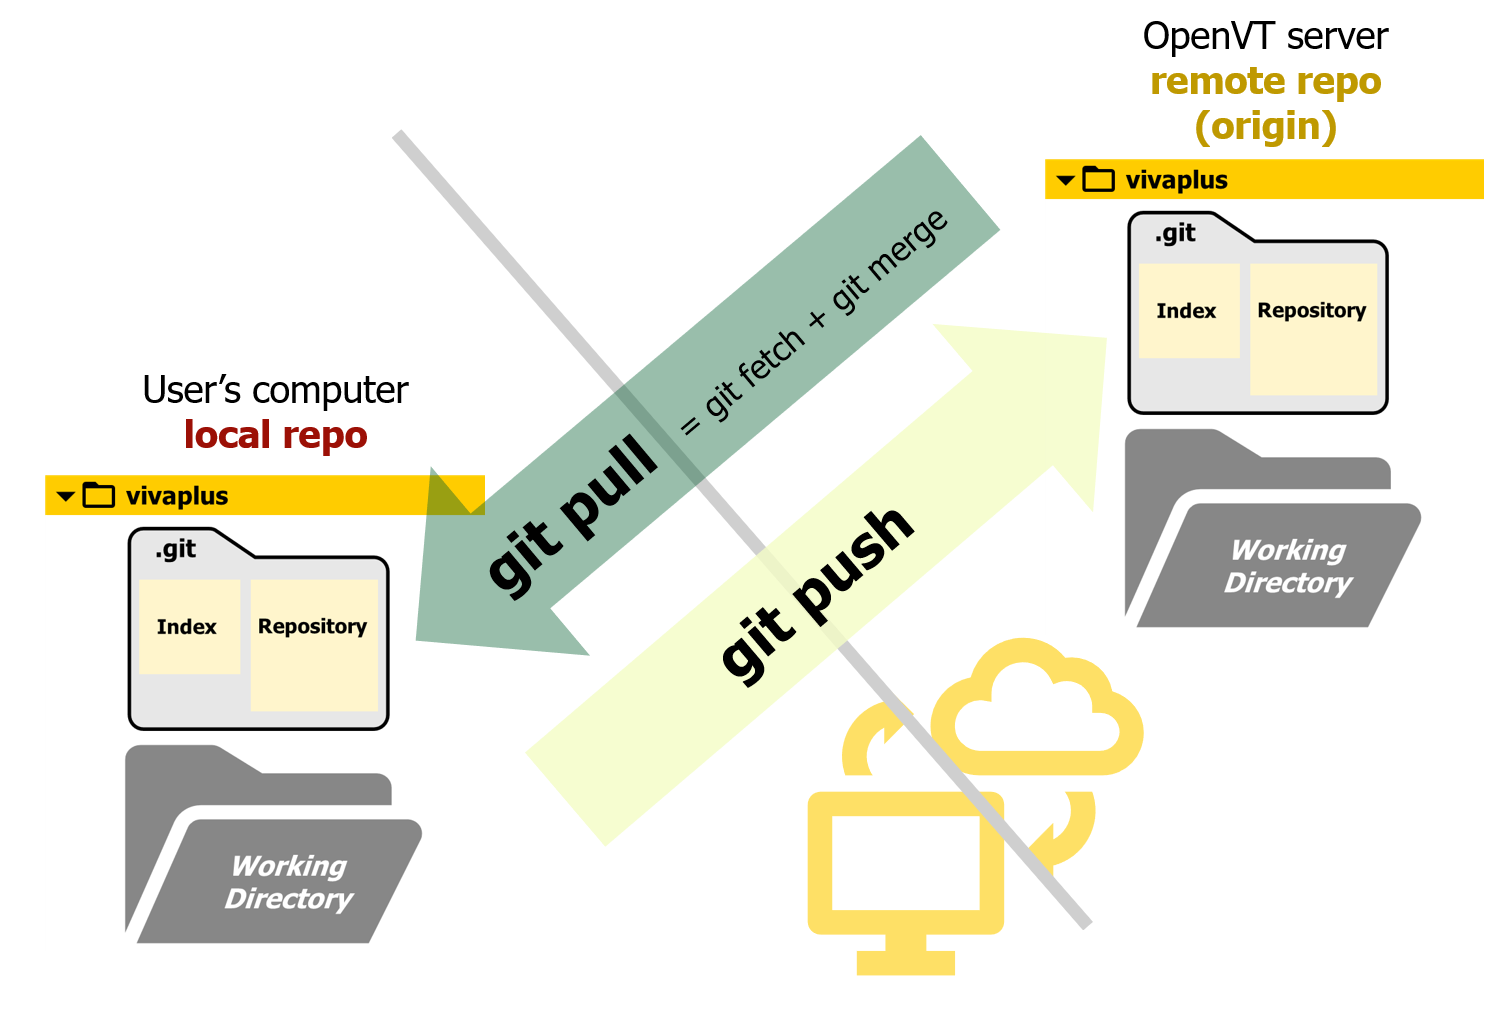
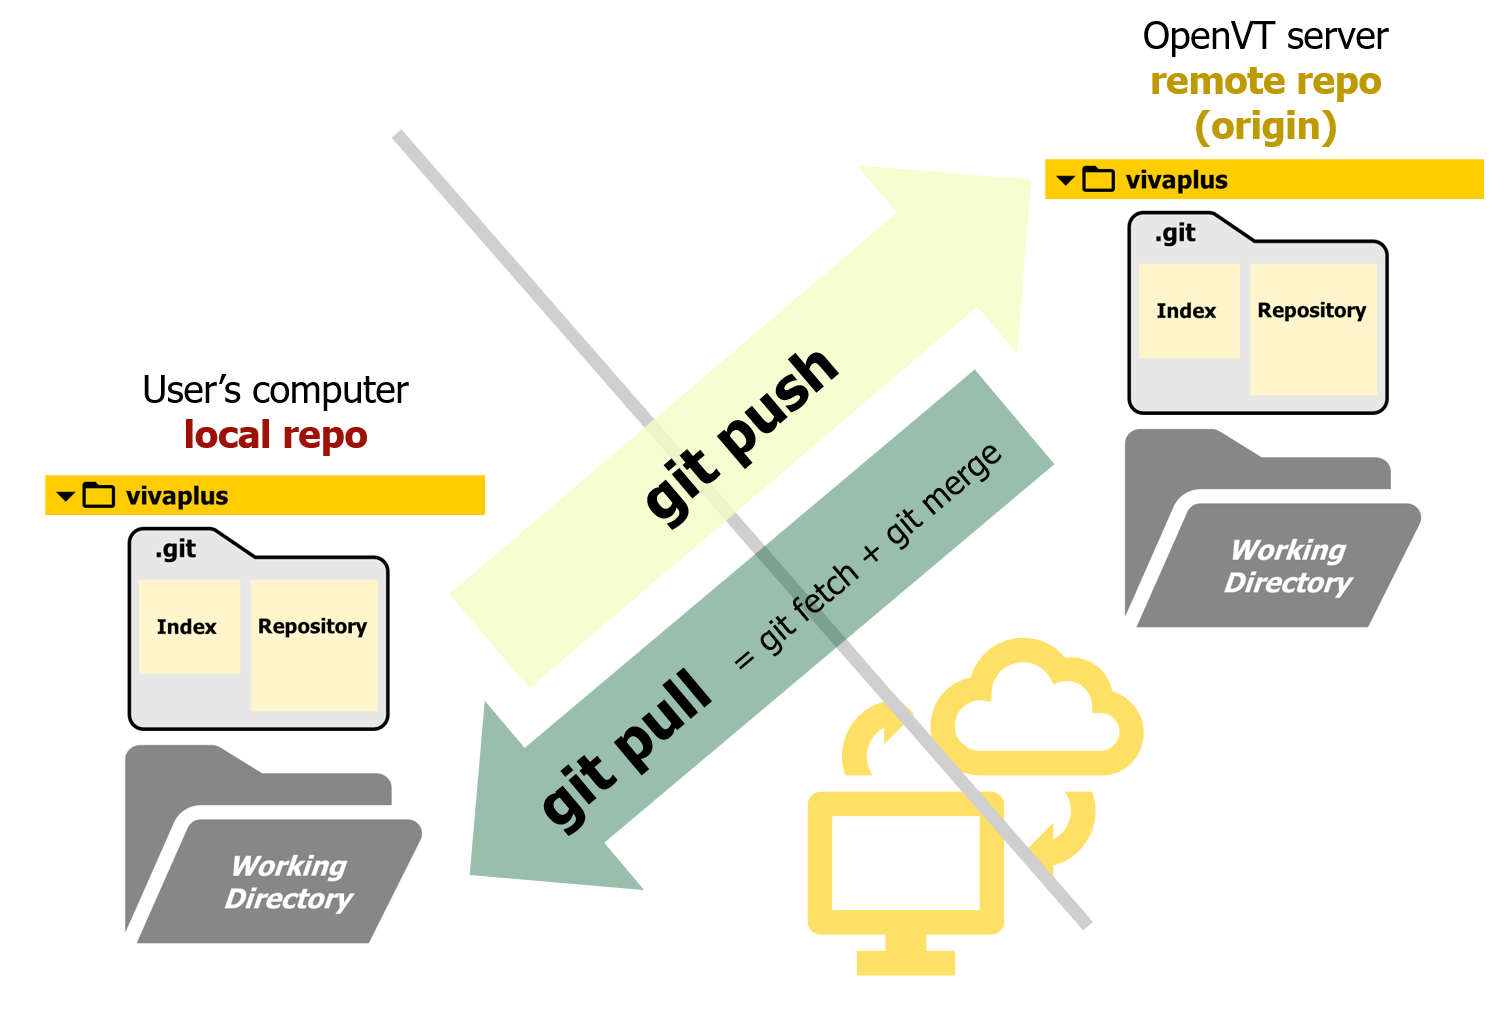
Update git remote notes

Changed region(s): [[0.2777, 0.1223, 0.7404, 0.8866]]

diff --git a/docs/2-4-git-remote-repo.md b/docs/2-4-git-remote-repo.md
@@ -35,36 +35,54 @@ Note the issue number of the issue you just create for later reference.This numb
 
 [^1]: https://docs.gitlab.com/ee/user/project/issues/
 
-## 2. Push
 
-Now you are ready to push the changes you made in your branch to the remote repo
+
+## **2. Push**
+
+Now you are ready to push the changes you made in your branch to the remote repo. The command for this is `git push <remote name> <branch name>`. In our case, the remote repo on OpenVT has the default name `origin` and so use the following command to **push your branch** to the remote repo
 
 ```
-git push orgin FirstName-LastName
+git push origin FirstName-LastName
 ```
+_If you are using Git Extensions_, use the Push button on the top toolbar to open the Push Window. Select the Remote, in our case `origin`, to push your branch.
 
 ![Git pull and push](img/git-pull-push_1.png)
 
-## Submit a Merge Request
+## **3. Submit a Merge Request**
 
-Using the issue number
+This step submits your updates for the approval and merging of the repo maintainters.
 
-## Pull the latest version of the repo
+- Select the Source branch (your branch to merge) and target branch (master)
+- Give a title (and description) to your merge request. 
+- Add 'closes #issuenumber' or 'fix #issuenumber' (Example, `closes #21`/`fix #7`) to the title to indicate that this merge request closes your `#issuenumber`.
+- Assign the merge request to one of the maintainers of the repo
+- Add the group `VIVA Workshops` as the approvers. The maintainers of that group will then get a request to review and approve your merge request
+- Submit your merge request (Green button)
 
-After the merge request has been approved, pull the repo to see your changes updated to the repo
+??? tip "Tip: Keywords that close an issue"
+    
+    The following keywords can be used in the merge request to close an issue [^1]
+
+    - Close, Closes, Closed, Closing, close, closes, closed, closing
+    - Fix, Fixes, Fixed, Fixing, fix, fixes, fixed, fixing
+    - Resolve, Resolves, Resolved, Resolving, resolve, resolves, resolved, resolving
+    - Implement, Implements, Implemented, Implementing, implement, implements, implemented, implementing 
+
+    [^1]: https://docs.gitlab.com/ee/user/project/issues/managing_issues.html#default-closing-pattern
+
+## **4. Pull**
 
 ```
-git pull
+git pull --rebase <remote name> <branch name>
 ```
 
-```
-git pull --rebase
-```
+_If you are using Git Extensions_, get the drop-down menu beside the pull button to select 'PUll-rebase' 
+
+![Git Extensions Pull Rebase](img/Git-extensions-pull-rebase.png#center){: style="width:350px"}
 
 ### Fetch
 
 
-### Merge/Rebase
 
 !!! question "What happens when you switch branches?"
 
